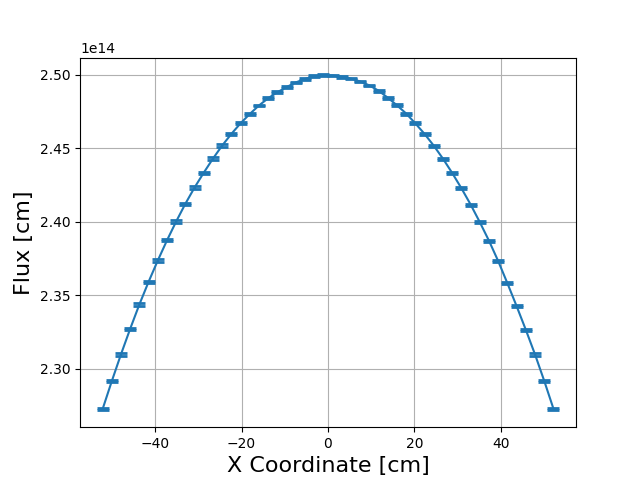
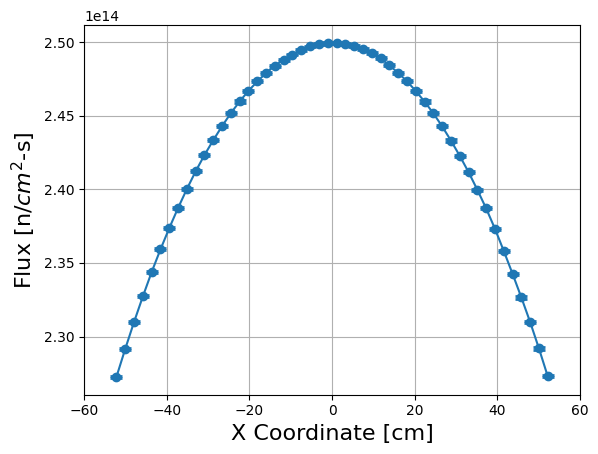
wrong flux units and update dimensions

diff --git a/simulations/no_ss_no_mesh_template/restarts/re-viz/visualize_results_flux_only.py b/simulations/no_ss_no_mesh_template/restarts/re-viz/visualize_results_flux_only.py
@@ -111,16 +111,18 @@ for n in n_elems:
 
 
 # plot numerical flux for 50 mesh elements
-plt.plot(xx[50],flux_means[50],'-')
+plt.plot(xx[50],flux_means[50],'-o')
 plt.errorbar(xx[50],flux_means[50],yerr=flux_std_dev[50],marker = '|',fmt='none',elinewidth=1,capsize=4,capthick=2)
 plt.xlabel("X Coordinate [cm]",fontsize=16)
-plt.ylabel("Flux [cm]",fontsize=16)
+plt.xticks([-60,-40,-20,0,20,40,60])
+plt.ylabel(r"Flux [n/$cm^{2}$-s]",fontsize=16)
 plt.grid()
-plt.savefig("flux_50.png")
+plt.rcParams['figure.figsize'] = [4, 4]
+plt.savefig("flux_50.png", bbox_inches="tight")
 plt.clf()
 
-for n in [50,100,1000]:
-    print(f"n={n}",np.divide(np.array(flux_std_dev[n]),np.array(flux_means[n])))
+# for n in [50,100,1000]:
+#     print(f"n={n}",np.divide(np.array(flux_std_dev[n]),np.array(flux_means[n])))
 
 # plot all flux C/E
 for n in n_elems:
